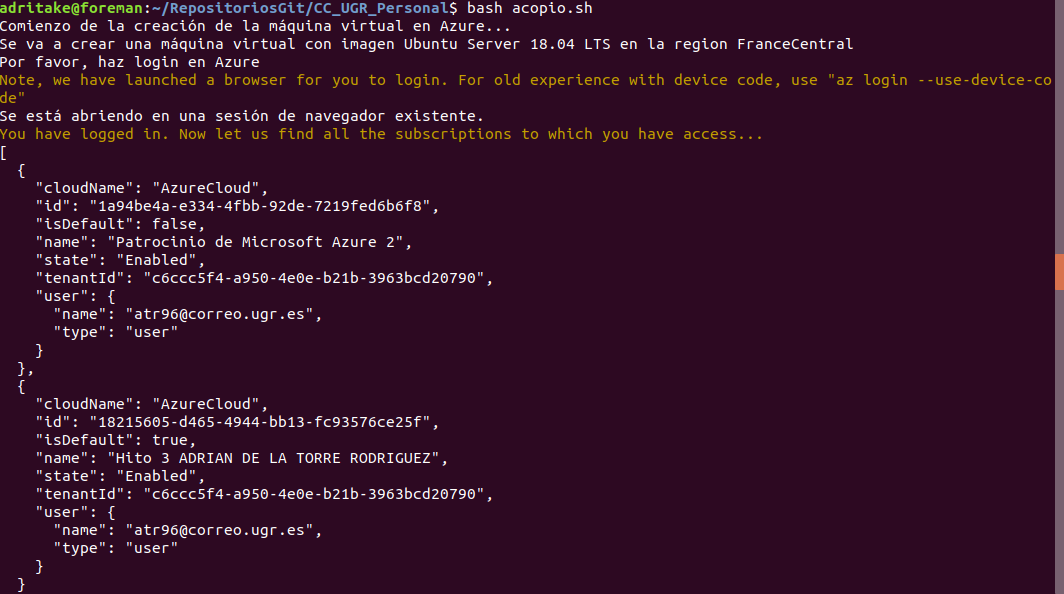
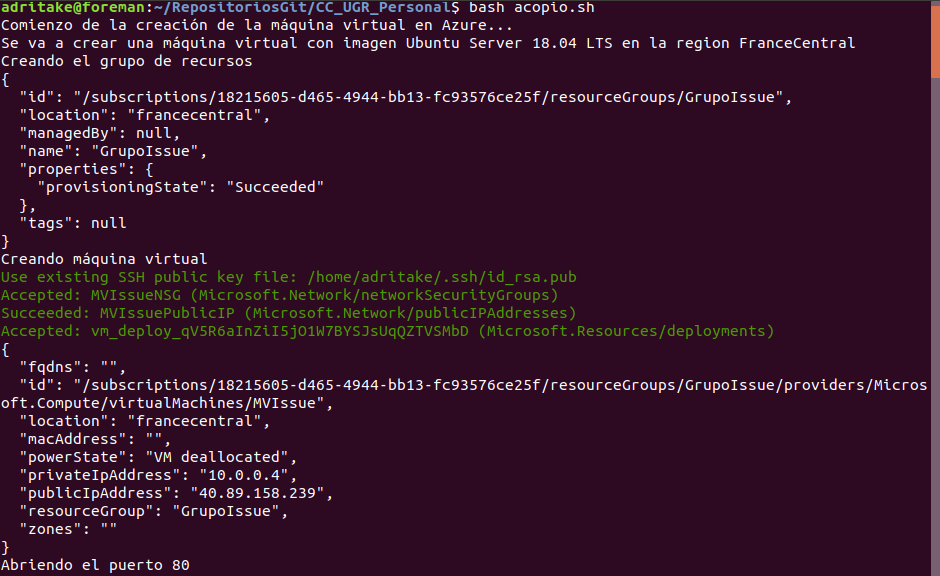
Elimino login y pregunta de grupo de recursos closes #34

Changed region(s): [[0.0, 0.0, 1.0, 1.0], [0.9872, 0.4062, 1.0, 0.5]]

diff --git a/docs/Automatizacion.md b/docs/Automatizacion.md
@@ -28,23 +28,12 @@ GRUPO="GrupoIssue"
 NOMBREMV="MVIssue"
 IMAGEN="Canonical:UbuntuServer:18.04-LTS:latest"
 ```
-- A continuación te pide que hagas login en Azure. Se te redirigirá la página de login de Azure.
+
+- Creamos el grupo de recuros en Francia Central con el nombre GrupoIssue
 ```bash
-az login
-```
-- Se pregunta si desea crear el grupo de recursos, se ha de seleccionar sí si es la primera vez que se ejecuta el script.
-
-```bash
-echo "¿Desea crear el grupo de recursos? Escriba [y/n]"
-
-read RESPUESTA
-
-if [[ $RESPUESTA == [Yy] ]]
-then
-  #Creamos el grupo de recursos
-  echo "Creando el grupo de recursos"
-  az group create -l $REGION -n $GRUPO
-fi
+#Creamos el grupo de recursos
+echo "Creando el grupo de recursos"
+az group create -l $REGION -n $GRUPO
 ```
 - Creamos la MV con los parámetros indicados en las variables. También se indica que se generen claves ssh y que la salida sea en JSON y que la IP sea estática:
 
@@ -67,7 +56,6 @@ A continuación se muestran capturas de pantalla con las salidas de haber ejecut
 ![acopio1.png](./img/acopio1.png)
 ![acopio2.png](./img/acopio2.png)
 ![acopio3.png](./img/acopio3.png)
-![acopio4.png](./img/acopio4.png)
 
 ## Aprovisionamiento de la máquina
 
